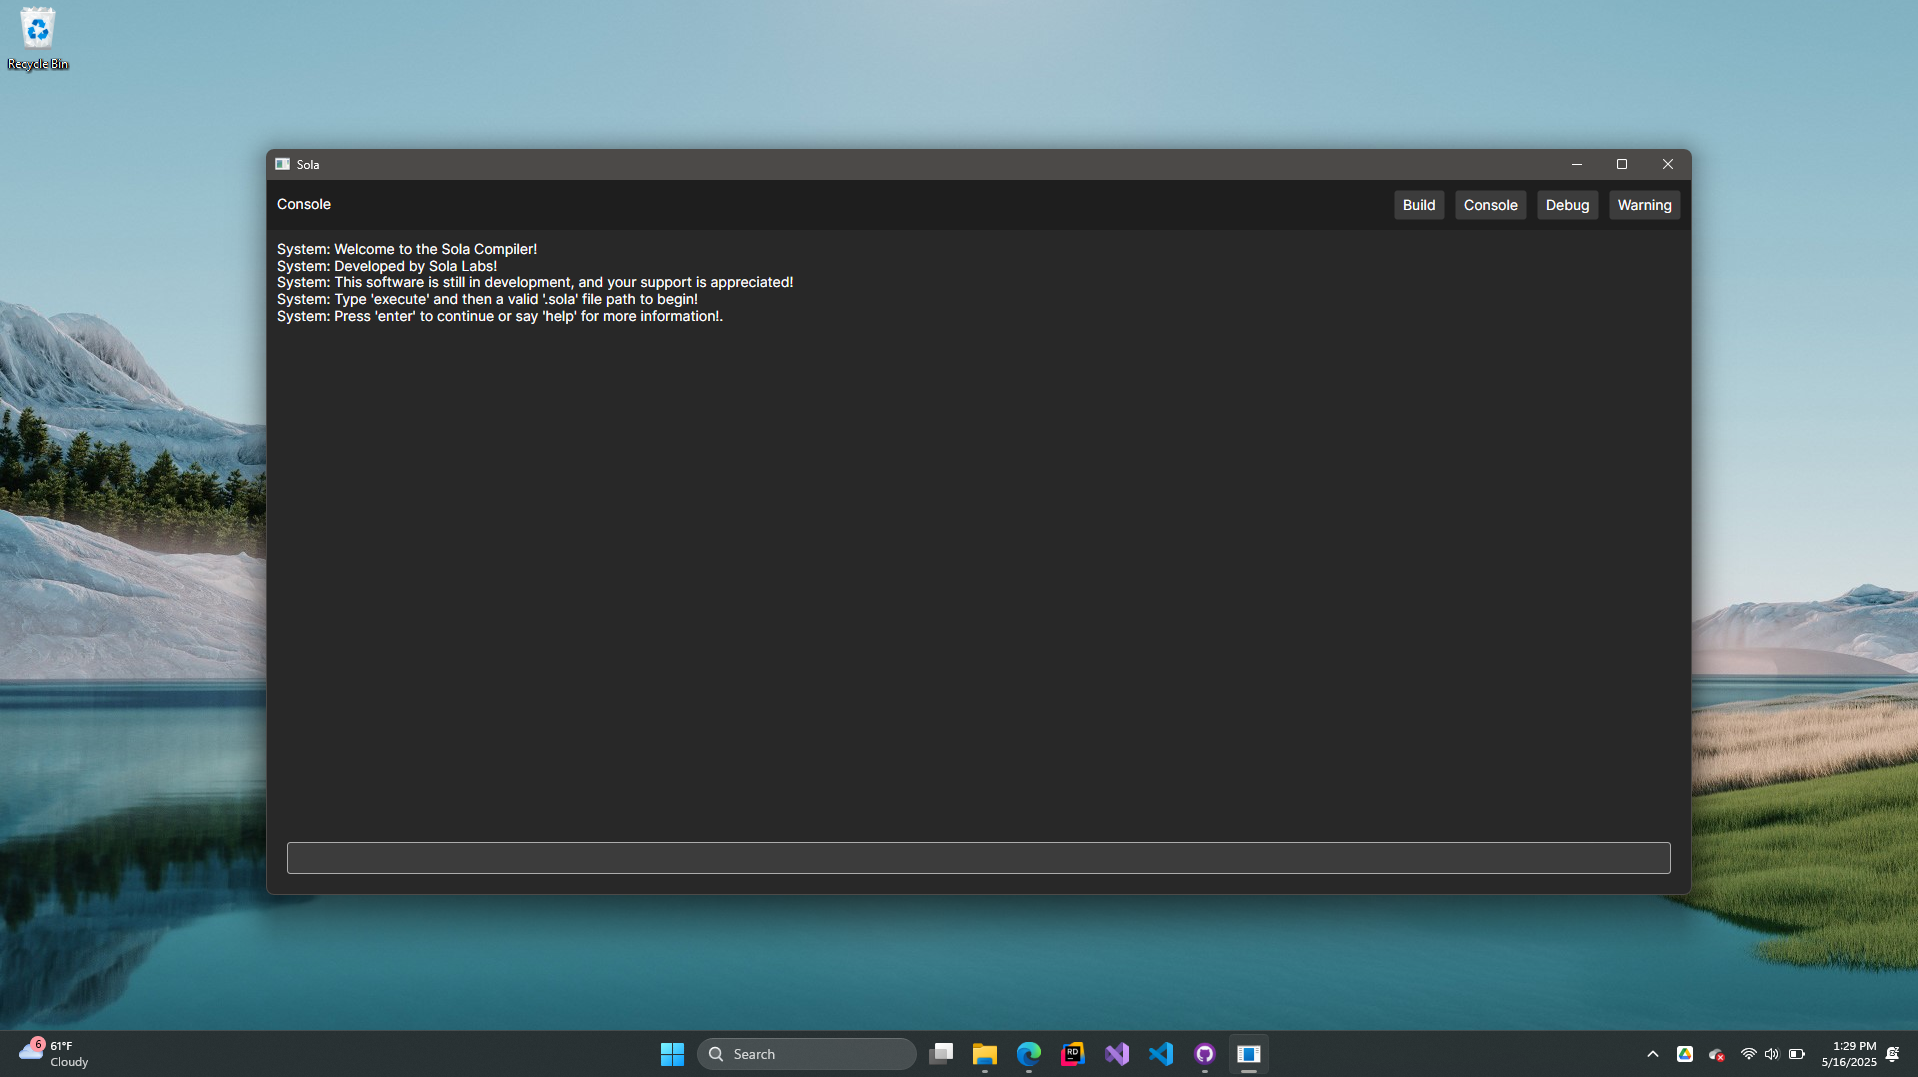
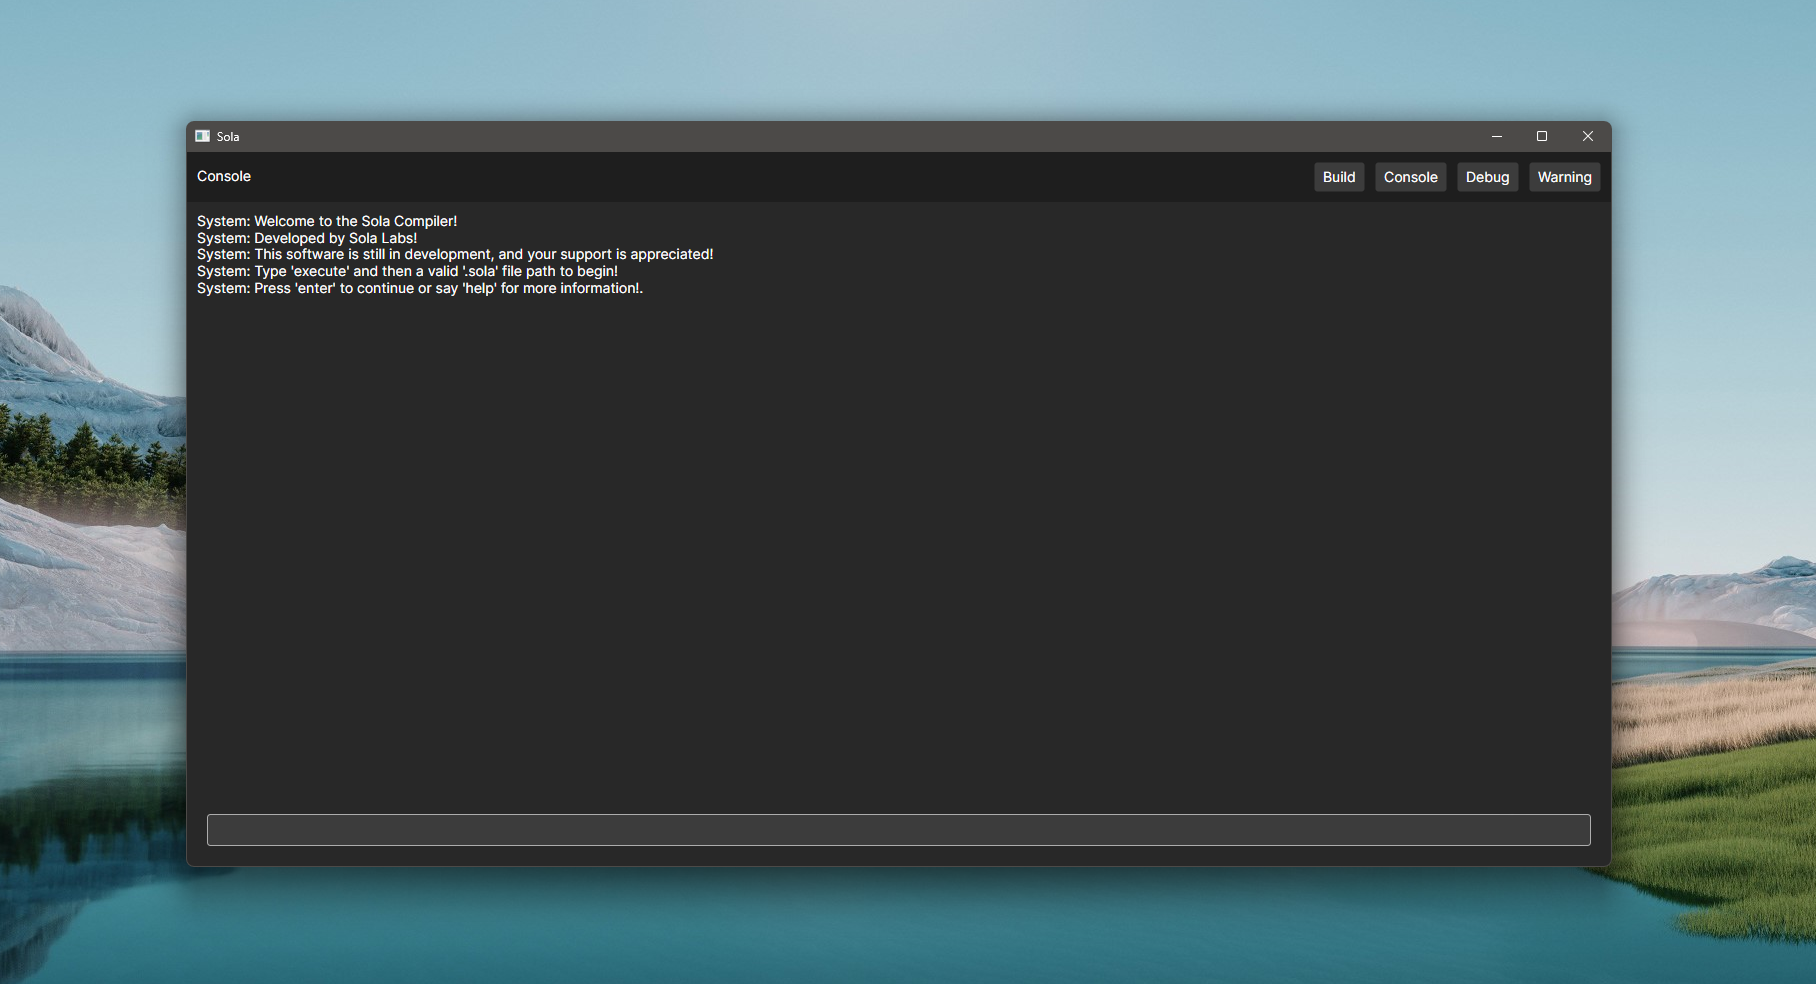
Updated about page to reflect cross-platform deployment.

Changed region(s): [[0.0, 0.0915, 1.0, 1.0], [0.0, 0.0, 0.0308, 0.0915]]

diff --git a/about.html b/about.html
@@ -25,21 +25,27 @@
         </header>
         <main>
             <div class="content" style="display:flex; flex-direction:column; align-items: center;">
-                <h1 id ="title">Sola Labs</h1>
+                <h1 id ="title" style=>Sola Labs</h1>
                 <h2 id ="subtitle">Software you can understand.</h2>
-                <p class="description">We're dedicated to designing and developing software that is a made for people. Life can be complicated, and technology isn't always easy to use or learn.</p>
+                <p class="description">We're dedicated to designing and developing software that is made for people. 
+                Life can be complicated, and technology isn't always easy to use or learn. We believe there is a better way.</p>
                 <button class="navigation"><a id="github" alt="Find our software on GitHub!" href="https://github.com/SolaLabs">Visit our GitHub</a></button>
             </div>
             <div class="ribbon">
                 <h1 id ="title">Our Vision</h1>
-                <p id="content">Programming is a skill that allows individuals to make a positive impact within society. It’s creative, expressive, and allows people to think critically. With AI getter better at writing code, we need languages to be oriented more towards human expression. With your support and feedback, we can accomplish this through the development of Sola. Let’s reach our goal of allowing a new generation to learn the wonderful experience that it is to create something unique or complex from their own imagination.</p>
+                <p id="content">Programming is a skill that allows individuals to make a positive impact within society. 
+                    It’s creative, expressive, and allows people to think critically. 
+                    As AI becomes incresingly proficient at writing code, developers need languages to be oriented more towards human expression. 
+                    That's the goal behind Sola. With your support and feedback, we can accomplish this through the development of the Sola Compiler. 
+                    Let’s reach our goal of empowering a new generation to learn the wonderful experience that it is to create something unique or complex from 
+                    their own imagination.</p>
             </div>
-            <img class="screenshot" alt="Sola Compiler" height = 1080px width= 1917px src = "../../Assets/Screenshots/Compiler.png">
+            <img class="screenshot" alt="Sola Compiler on MacOS" height = 1080px width= 1917px src = "../../Assets/Screenshots/MacOS.png">
             <div class="content">
                 <div class="divider">
                     <div id="content">
                         <h1 id ="title">Code you can read.</h1>
-                        <h2 id ="subtitle">Simplier syntax, and elegant structure.</h2>
+                        <h2 id ="subtitle">Simpler syntax, and elegant structure.</h2>
                         <p>Code should be intuitive. The syntax that defines it should be consistent and make sense.</p>
                     </div>
                     <div class="codebox">
@@ -96,6 +102,14 @@
                     </div> 
                 </div>
             </div>
+            <div class="ribbon">
+                <h1 id ="title" style="width:75%; text-align:left">Cross-Platform Solutions</h1>
+                <p id="content">The Sola Compiler runs on any platform, so your applications can, too. 
+                    We're building a full-stack environment where your projects can live from idea to deployment, 
+                    and developing a user-interface system that is native, syntax-consistent with Sola, and deployable in seconds. 
+                    This includes a fully featured IDE, and an API for cloud-based Sola code execution.</p>
+            </div>
+            <img class="screenshot" alt="Sola Compiler on Windows" height = 1080px width= 1917px src = "../../Assets/Screenshots/Windows.png">
         </main>
         <footer>
             <p id="foot">2025 Sola Labs Development</p>
